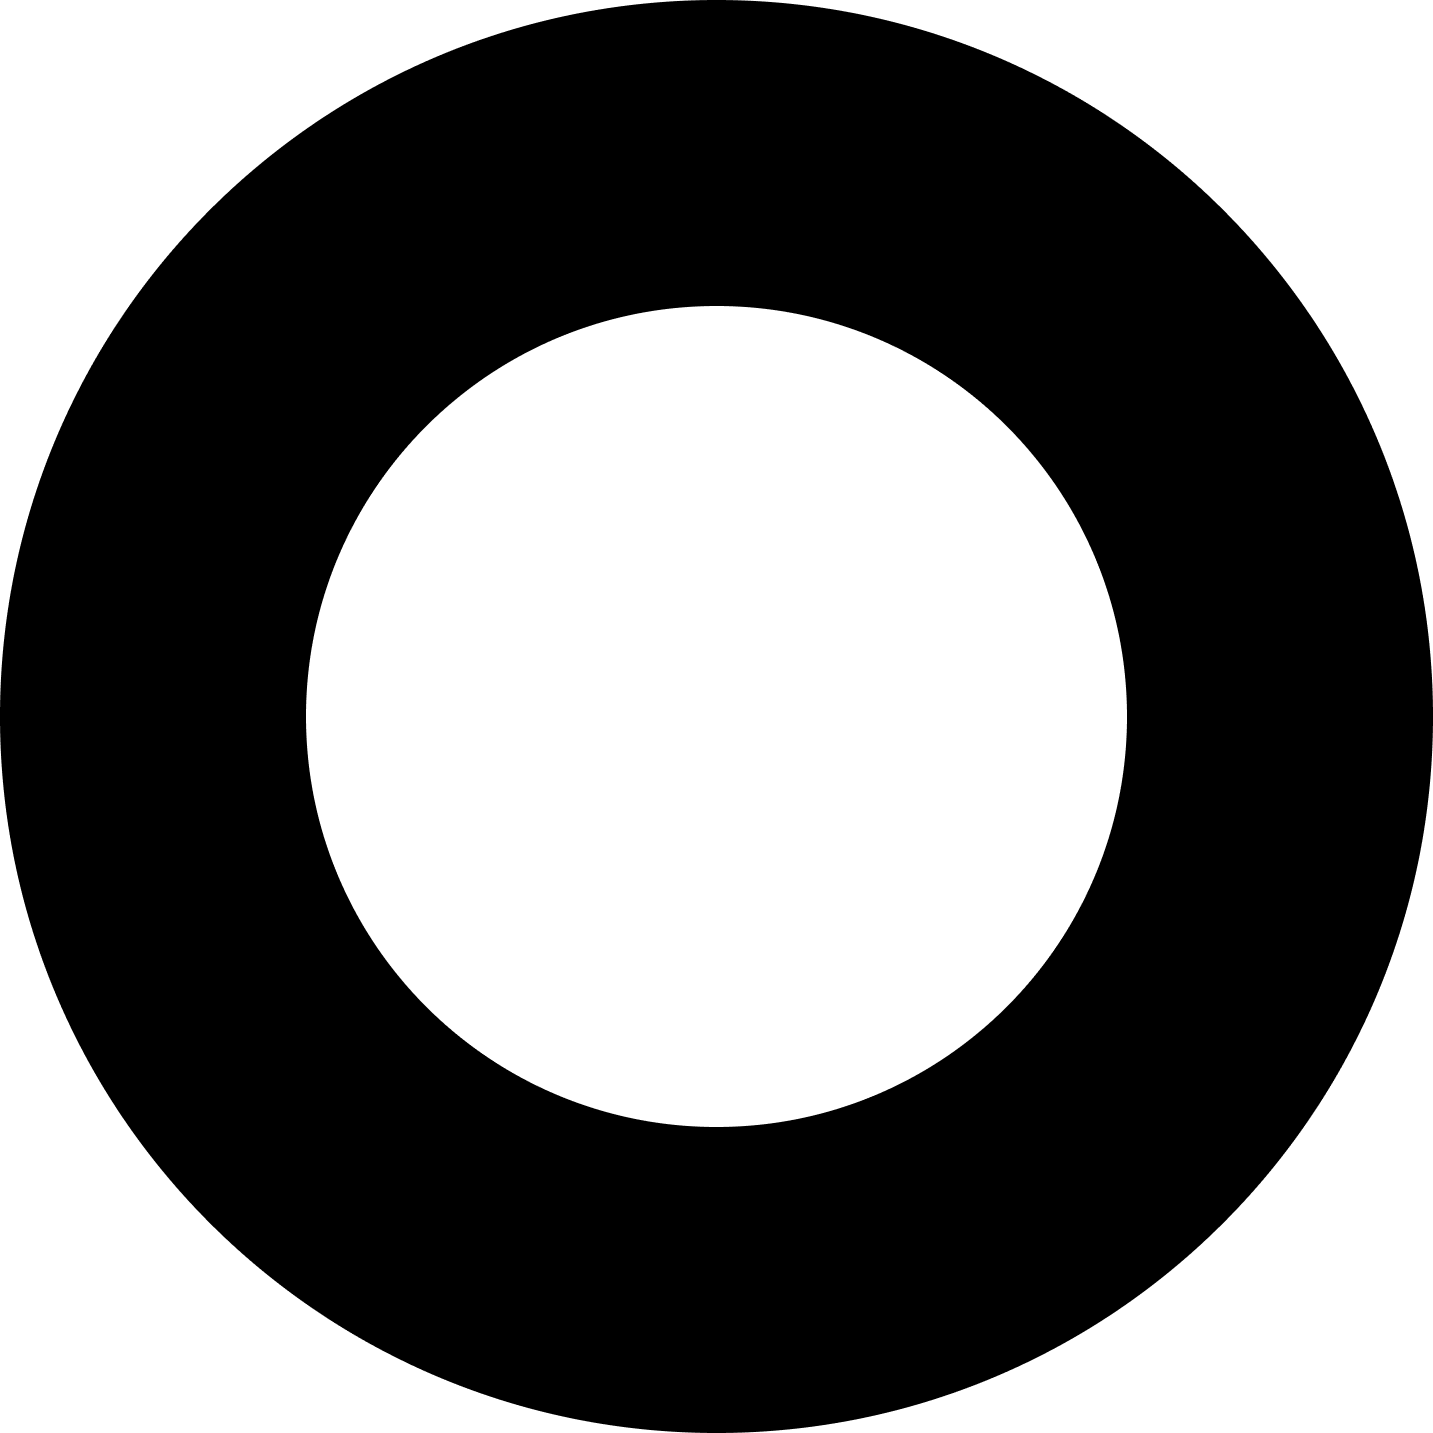
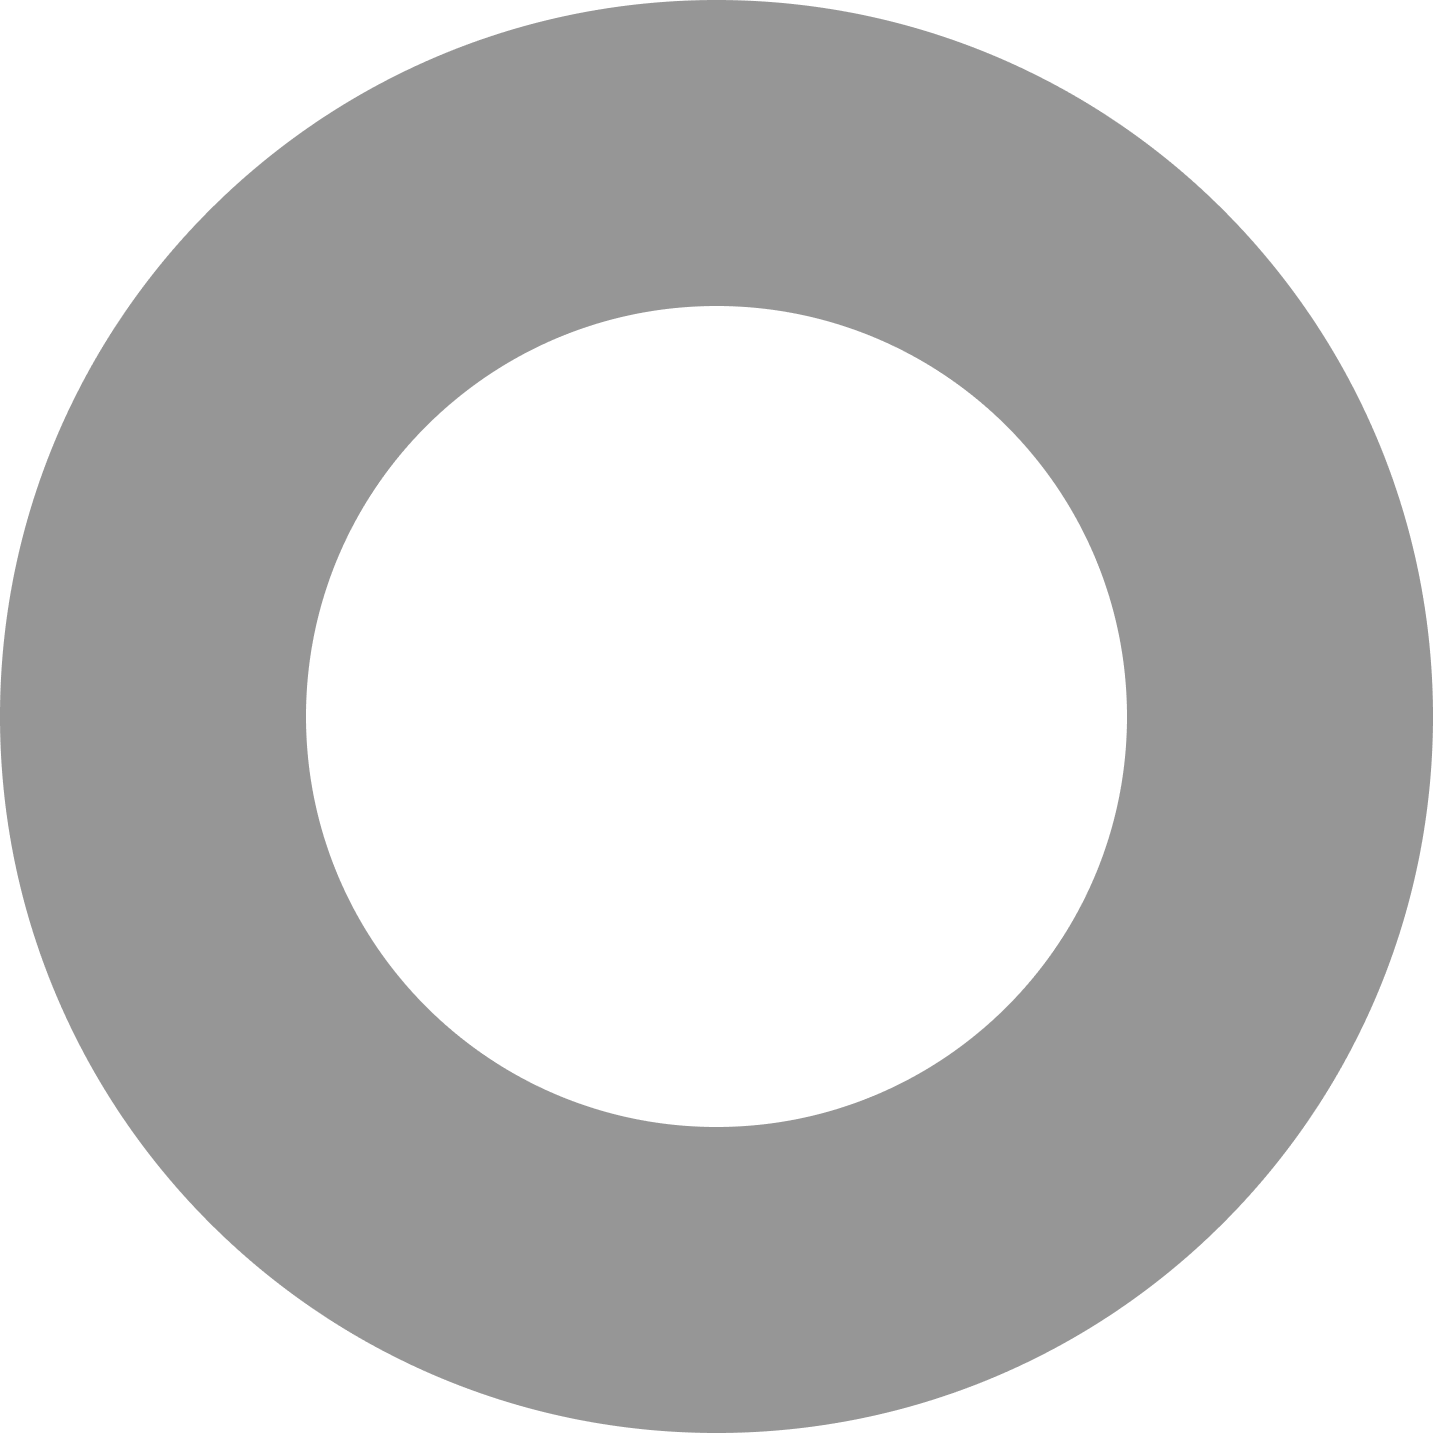
一大步

diff --git a/Systems/HierarchySystem.cs b/Systems/HierarchySystem.cs
@@ -49,55 +49,55 @@ public class HierarchySystem : IInitializeSystem {
 
 
 		#region quad
-		// var quad0 = _contexts.game.CreateEntity();
-		// quad0.AddComponentName( "quad0" );
-		// quad0.AddComponentPosition( 0, 0, -0.1f );
-		// quad0.AddComponentSize( 1f, 0.9f );
-		// quad0.AddComponentRotation( 0 );
-		// quad0.AddMatRenderSingle( true, 0, null );
-		// quad0.AddMatPara( null, new Dictionary<string, object>(){
-		// 	{ "MainTex", "blue.png" }
-		// } );
+		var quad0 = _contexts.game.CreateEntity();
+		quad0.AddComponentName( "quad0" );
+		quad0.AddComponentPosition( 0, 0, -0.1f );
+		quad0.AddComponentSize( 1f, 1f );
+		quad0.AddComponentRotation( 0 );
+		quad0.AddMatRenderSingle( true, 0, null );
+		quad0.AddMatPara( null, new Dictionary<string, object>(){
+			{ "MainTex", "circle.png" }
+		} );
 	
-		var quad1 = _contexts.game.CreateEntity();
-		quad1.AddComponentName( "quad1" );
-		quad1.AddComponentPosition( 0, 0.5f, 1 );
-		quad1.AddComponentSize( 0.5f, 0.1f );
-		quad1.AddComponentRotation( 0 );
-		quad1.AddMatRenderSingle( true, 0, null );
-		quad1.AddMatPara( null, new Dictionary<string, object>(){
-			{ "MainTex", "yellow.png" }
-		} );
-
-		var quad2 = _contexts.game.CreateEntity();
-		quad2.AddComponentName( "quad2" );
-		quad2.AddComponentPosition( -0.5f, 0f, 0 );
-		quad2.AddComponentSize( 0.1f, 0.5f );
-		quad2.AddComponentRotation( 0 );
-		quad2.AddMatRenderSingle( true, 0, null );
-		quad2.AddMatPara( null, new Dictionary<string, object>(){
-			{ "MainTex", "green.png" }
-		} );
-
-		var quad3 = _contexts.game.CreateEntity();
-		quad3.AddComponentName( "quad3" );
-		quad3.AddComponentPosition( 0.5f, 0, 0 );
-		quad3.AddComponentSize( 0.1f, 0.5f );
-		quad3.AddComponentRotation( 0 );
-		quad3.AddMatRenderSingle( true, 0, null );
-		quad3.AddMatPara( null, new Dictionary<string, object>(){
-			{ "MainTex", "green.png" }
-		} );
-
-		var quad4 = _contexts.game.CreateEntity();
-		quad4.AddComponentName( "quad4" );
-		quad4.AddComponentPosition( 0f, -0.5f, -0f );
-		quad4.AddComponentSize( 0.5f, 0.1f );
-		quad4.AddComponentRotation( 0 );
-		quad4.AddMatRenderSingle( true, 0, null );
-		quad4.AddMatPara( null, new Dictionary<string, object>(){
-			{ "MainTex", "red.png" }
-		} );
+		// var quad1 = _contexts.game.CreateEntity();
+		// quad1.AddComponentName( "quad1" );
+		// quad1.AddComponentPosition( 0, 0.5f, 1 );
+		// quad1.AddComponentSize( 0.5f, 0.1f );
+		// quad1.AddComponentRotation( 0 );
+		// quad1.AddMatRenderSingle( true, 0, null );
+		// quad1.AddMatPara( null, new Dictionary<string, object>(){
+		// 	{ "MainTex", "yellow.png" }
+		// } );
+		//
+		// var quad2 = _contexts.game.CreateEntity();
+		// quad2.AddComponentName( "quad2" );
+		// quad2.AddComponentPosition( -0.5f, 0f, 0 );
+		// quad2.AddComponentSize( 0.1f, 0.5f );
+		// quad2.AddComponentRotation( 0 );
+		// quad2.AddMatRenderSingle( true, 0, null );
+		// quad2.AddMatPara( null, new Dictionary<string, object>(){
+		// 	{ "MainTex", "green.png" }
+		// } );
+		//
+		// var quad3 = _contexts.game.CreateEntity();
+		// quad3.AddComponentName( "quad3" );
+		// quad3.AddComponentPosition( 0.5f, 0, 0 );
+		// quad3.AddComponentSize( 0.1f, 0.5f );
+		// quad3.AddComponentRotation( 0 );
+		// quad3.AddMatRenderSingle( true, 0, null );
+		// quad3.AddMatPara( null, new Dictionary<string, object>(){
+		// 	{ "MainTex", "green.png" }
+		// } );
+		//
+		// var quad4 = _contexts.game.CreateEntity();
+		// quad4.AddComponentName( "quad4" );
+		// quad4.AddComponentPosition( 0f, -0.5f, -0f );
+		// quad4.AddComponentSize( 0.5f, 0.1f );
+		// quad4.AddComponentRotation( 0 );
+		// quad4.AddMatRenderSingle( true, 0, null );
+		// quad4.AddMatPara( null, new Dictionary<string, object>(){
+		// 	{ "MainTex", "red.png" }
+		// } );
 
 		/*
 		var quad5 = _contexts.game.CreateEntity();

diff --git a/Render/LightEffect/ShadowLightComputer.cs b/Render/LightEffect/ShadowLightComputer.cs
@@ -9,6 +9,8 @@ using Silk.NET.OpenGL;
 namespace Render.PostEffect;
 
 public class ShadowLightComputer : LightEffectComputer {
+	const int ShadowLightPrecisionAngular = 360;
+	const int ShadowLightPrecisionMarch = 50;
 	Vector3 _color;
 	float _intensity;
 	Vector2 _position;
@@ -23,9 +25,9 @@ public class ShadowLightComputer : LightEffectComputer {
 	byte[] _shadowData = Array.Empty<byte>();
 	RenderFullscreen _shadowRenderFullscreen;
 	public ShadowLightComputer() {
-		_shadowMap = TexturePool.GetRT( 360, 1, false );
-		_shadowRenderFullscreen = new RenderFullscreen( "Blit.vert", "ShadowLightShadowMap.frag" );
-		_shadowData = new byte[360 * 4];
+		_shadowMap = TexturePool.GetRT( ShadowLightPrecisionAngular, 1, false );
+		_shadowRenderFullscreen = new RenderFullscreen( "Blit_CustomUVScale.vert", "ShadowLightShadowMap.frag" );
+		_shadowData = new byte[ShadowLightPrecisionAngular * 4];
 	}
 
 	public override void Render( RenderTexture rt ) {
@@ -88,13 +90,15 @@ public class ShadowLightComputer : LightEffectComputer {
 		_lightMap = TexturePool.GetTex( (uint)radiusPixelSize * 2, (uint)radiusPixelSize * 2 );
 		_lightMap.UpdateImageContent( _lightData, (uint)radiusPixelSize * 2, (uint)radiusPixelSize * 2 );
 
+		var uvScale = GameSetting.WindowWidth / (float)ShadowLightPrecisionAngular;
 		_shadowMap.RenderToRt();
 		_shadowRenderFullscreen.SetTexture( "_BlitTexture", _lightMap );
-		_shadowRenderFullscreen.SetUniform( "resolution", 50 );
+		_shadowRenderFullscreen.SetUniform( "resolution", ShadowLightPrecisionMarch );
+		_shadowRenderFullscreen.SetUniform( "_UVScale", uvScale );
 		_shadowRenderFullscreen.Draw();
 		GlobalVariable.GL.Finish();
 		_shadowMap.GetImage( _shadowData );
-		var col = Image.TryGetColorPixelRGBA( _shadowData, 359, 0, 360, 1 );
+		var col = Image.TryGetColorPixelRGBA( _shadowData, 359, 0, ShadowLightPrecisionAngular, 1 );
 		Console.WriteLine( col );
 		
 		TexturePool.ReturnTex( _lightMap );

diff --git a/Global/GameSetting.cs b/Global/GameSetting.cs
@@ -23,6 +23,8 @@ public static class GameSetting {
 	public const int MaxInstancePerDrawCall = 50;
 	public const int MaxRenderLayer = 1;
 
+	
+	
 	/// <summary>
 	/// 每帧获取deltaTime,毫秒
 	/// </summary>
